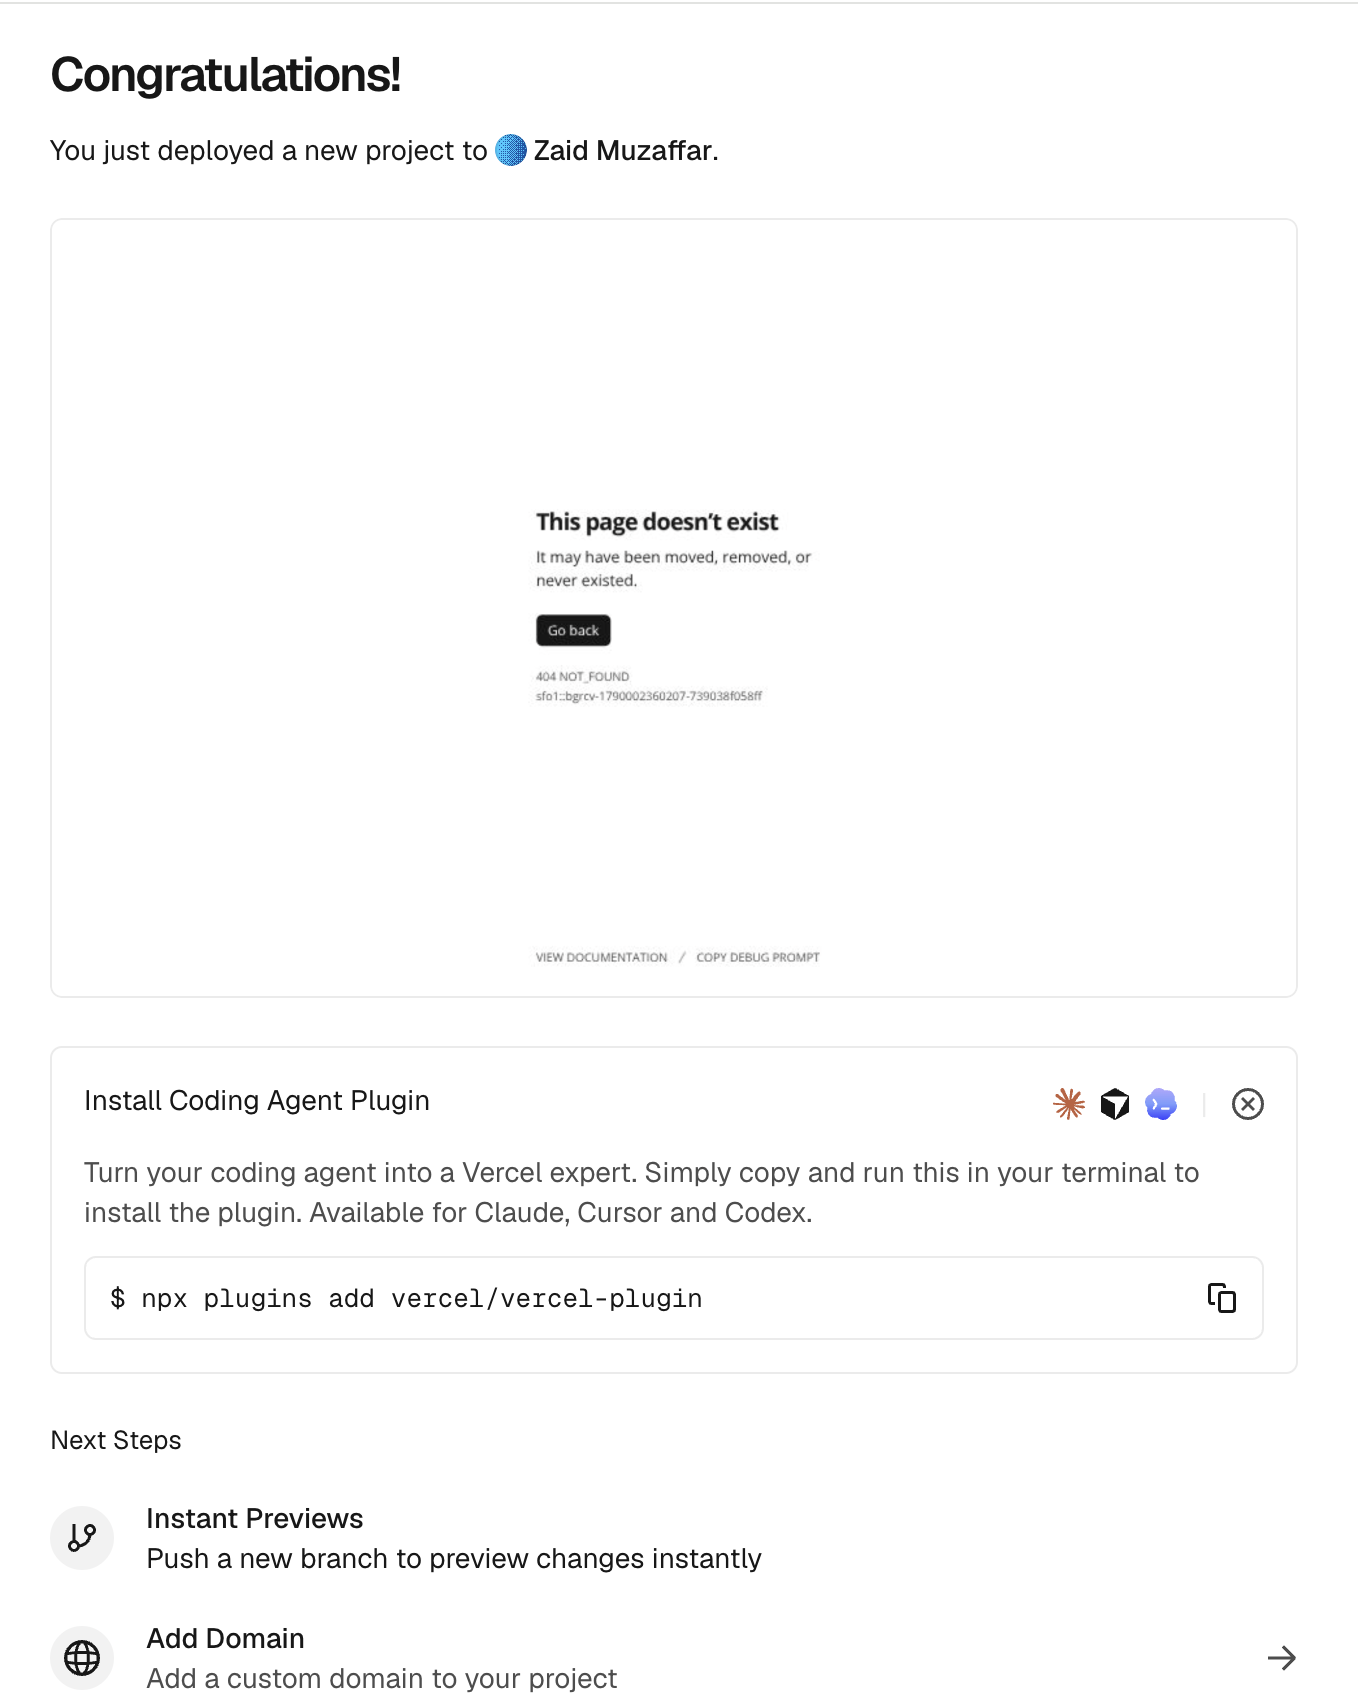
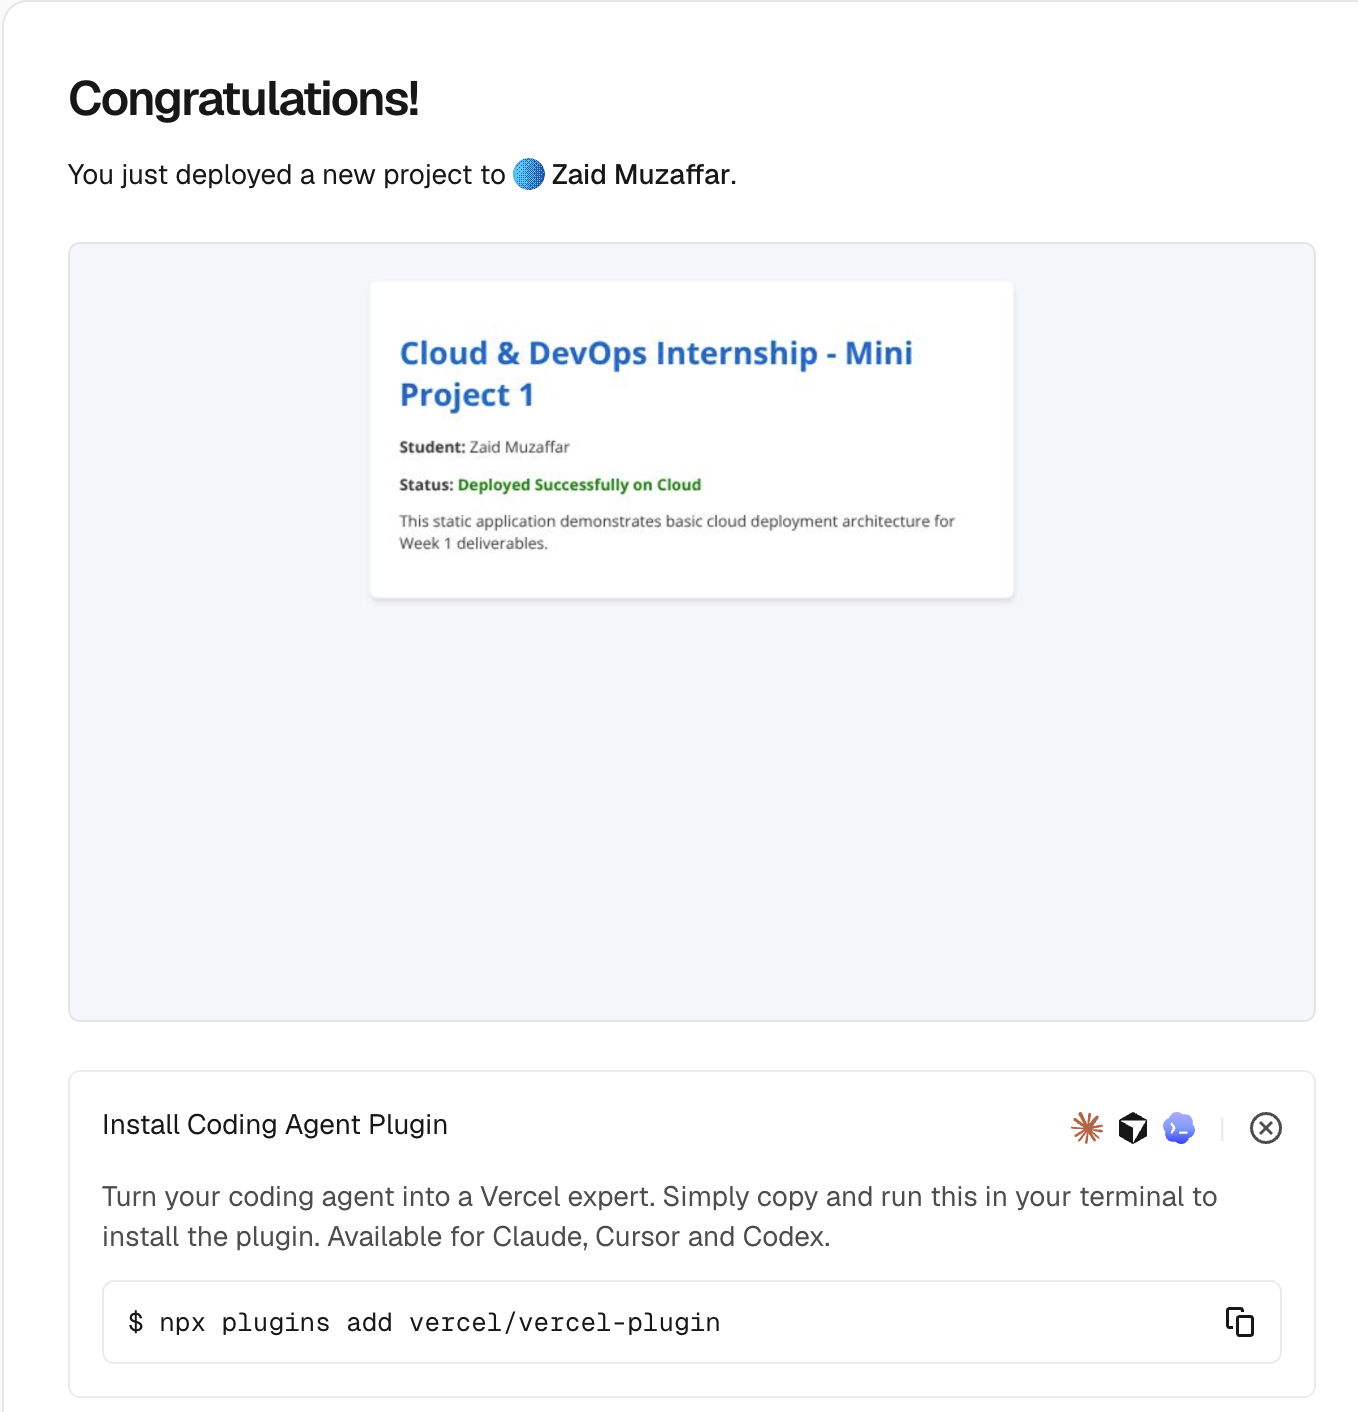
Update Week 1 folder files from local Mac

diff --git a/Week 1/Architecture_Documentation.md b/Week 1/Architecture_Documentation.md
@@ -1,0 +1,19 @@
+# Week 1: Cloud Architecture Documentation
+
+## Architecture Overview
+For Mini Project 1, a serverless/static Platform-as-a-Service (PaaS) architecture was implemented using Vercel integrated with GitHub continuous deployment.
+
+## Deployment Pipeline Architecture
+[ GitHub Repository (main branch) ]
+             │
+             ▼ (Webhook Trigger)
+[ Vercel Build & Deployment Pipeline ]
+             │
+             ▼ (Global Edge CDN)
+[ End User Browser Access ]
+
+## Infrastructure Details
+- **Source Code Management:** GitHub (`SkillSetGo-Cloud-DevOps-Internship`)
+- **Hosting Provider:** Vercel Global Edge Network
+- **Deployment Type:** Automated Continuous Deployment (Git Push Workflow)
+- **Live URL:** [Insert Your Vercel Live Link Here]
